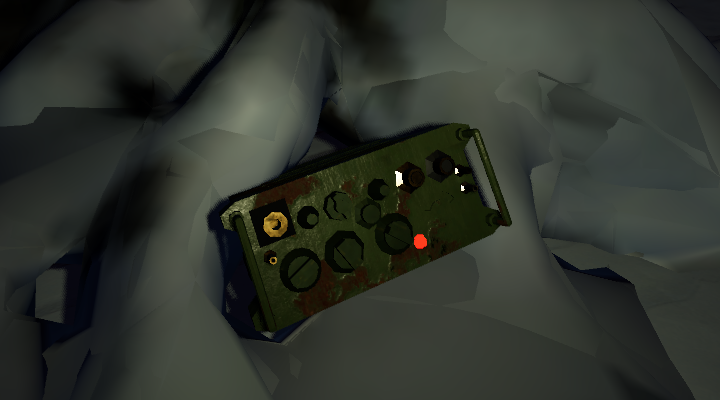
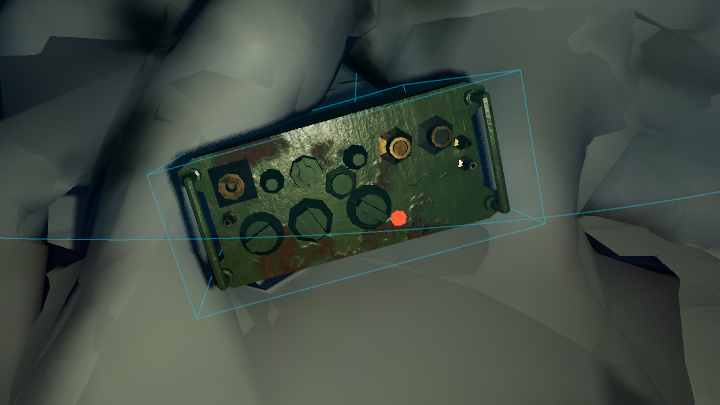
Changed images for the projects.

diff --git a/index.html b/index.html
@@ -260,6 +260,20 @@
             </div>
             <div class="grid grid-cols-1 sm:grid-cols-2 lg:grid-cols-3 gap-6">
 
+                <a href="https://github.com/Marko534/godot-fluidsim-lbm" target="_blank" rel="noopener noreferrer"
+                    class="block transition-transform hover:scale-105">
+                    <div class="card">
+                        <img src="assets/images/pawprint12.png" alt="PawPrint preview" class="image">
+                        <div class="flex items-center justify-between mb-2">
+                            <span class="text-2xl">🍃</span>
+                            <span
+                                class="text-xs text-gray-400 dark:text-gray-500 bg-gray-50 dark:bg-gray-800 px-2 py-0.5 rounded-full">Godot/GLSL</span>
+                        </div>
+                        <h3 class="font-bold text-gray-900 dark:text-white text-lg">Godot LBM wind</h3>
+                        <p class="text-sm text-gray-600 dark:text-gray-400 mt-2">Wind sim using godot and LBM.</p>
+                    </div>
+                </a>
+
                 <a href="https://github.com/m1thrandir225/pawprint" target="_blank" rel="noopener noreferrer"
                     class="block transition-transform hover:scale-105">
                     <div class="card">
@@ -314,7 +328,7 @@
                         <div class="flex items-center justify-between mb-2">
                             <span class="text-2xl">🧭</span>
                             <span
-                                class="text-xs text-gray-400 dark:text-gray-500 bg-gray-50 dark:bg-gray-800 px-2 py-0.5 rounded-full">Python/JS</span>
+                                class="text-xs text-gray-400 dark:text-gray-500 bg-gray-50 dark:bg-gray-800 px-2 py-0.5 rounded-full">JS</span>
                         </div>
                         <h3 class="font-bold text-gray-900 dark:text-white text-lg">Pathfinder</h3>
                         <p class="text-sm text-gray-600 dark:text-gray-400 mt-2">Visualization tool for pathfinding
@@ -327,7 +341,7 @@
                     <div class="card">
                         <img src="assets/images/fluid sim.png" alt="Fluid Simulation preview" class="image">
                         <div class="flex items-center justify-between mb-2">
-                            <span class="text-2xl">💧</span>
+                            <span class="text-2xl">🌊</span>
                             <span
                                 class="text-xs text-gray-400 dark:text-gray-500 bg-gray-50 dark:bg-gray-800 px-2 py-0.5 rounded-full">CUDA</span>
                         </div>